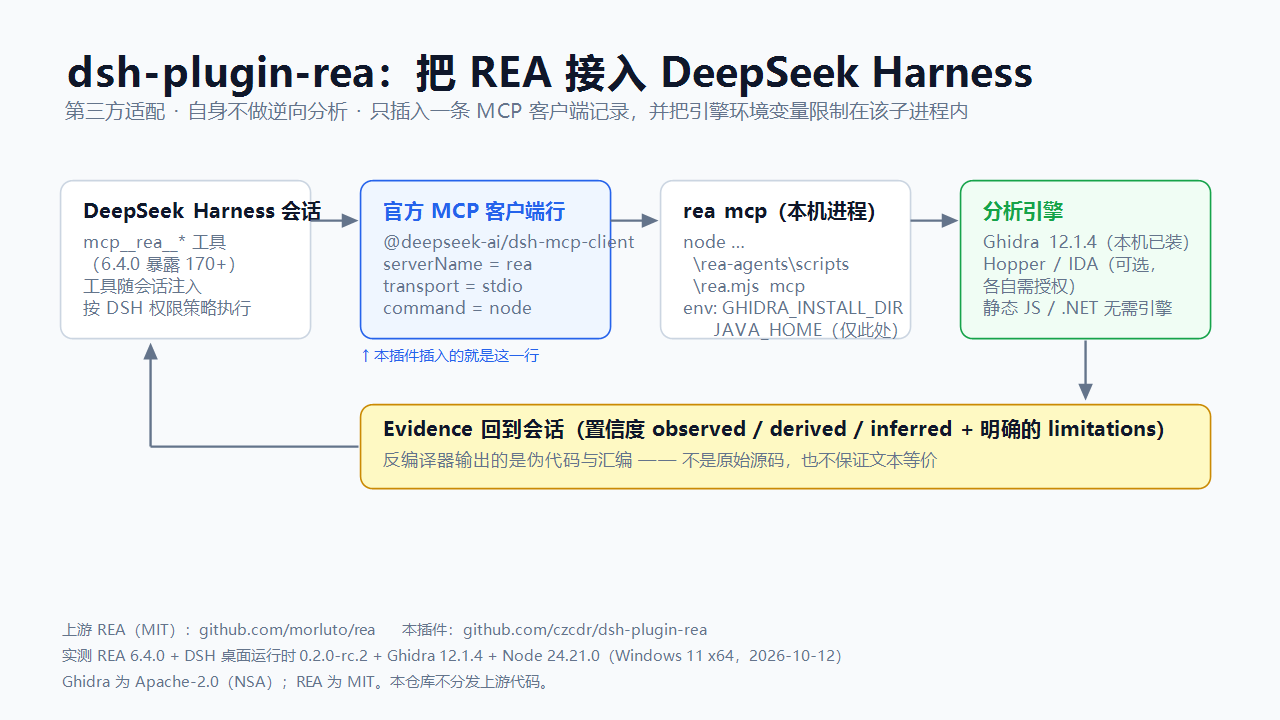
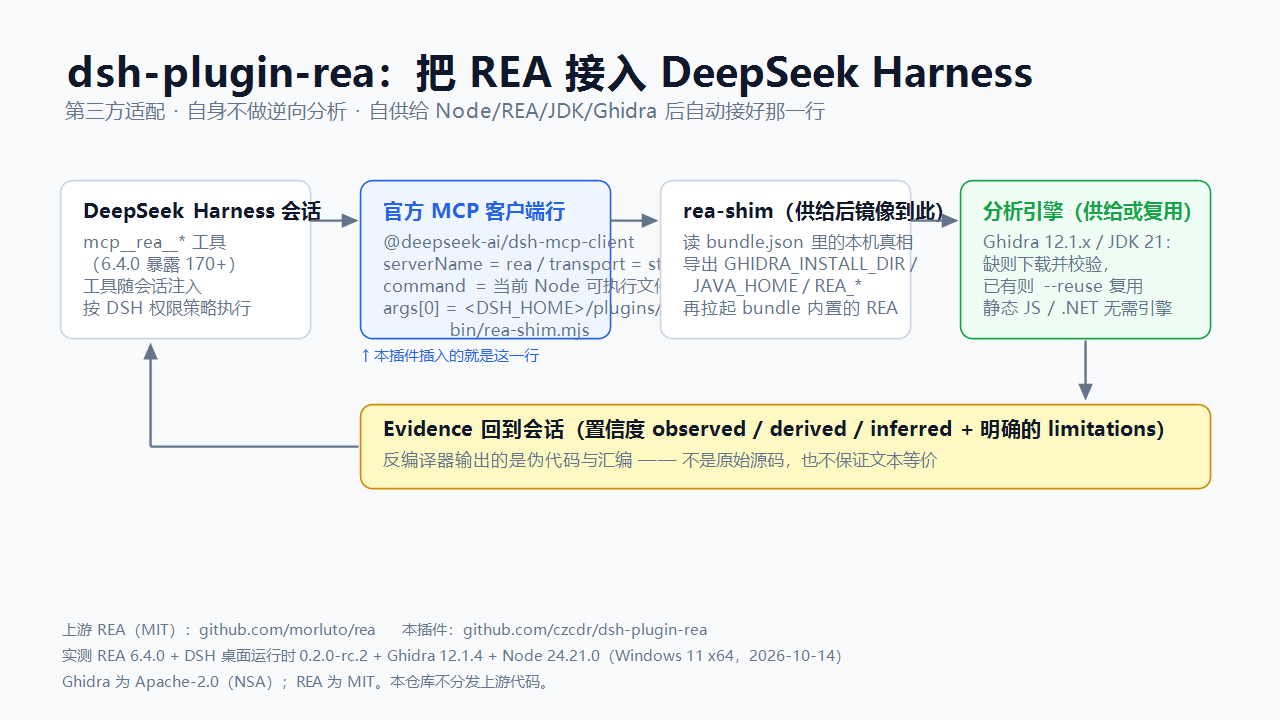
2.0.0: main becomes the one-plugin bundle line, with 1.x preserved on v1
main fast-forwards onto the bundle branch (no merge commit), so the default branch,
npm latest and the market all point at the all-in-one variant; the 1.x
configuration-only adapter is preserved on the new v1 branch and on npm 1.0.6.

- package.json 2.0.0-bundle.2 -> 2.0.0; CHANGELOG gains the 2.0.0 entry including the
  1.x -> 2.x upgrade steps (run setup once, then restart: the 2.x row launches a shim
  that only setup creates, so an unprovisioned upgrade loses the tools silently)
- both READMEs: a new "two lines" section comparing 1.x and 2.x, install commands
  switched to the npm name (plus a #v2.0.0 pin), an "Upgrading from 1.x" section, and
  a Verified-against note that separates what was exercised live from what was not
  (the JDK + Ghidra download branch, macOS/Linux first runs)
- assets/make-screenshots.ps1: the diagram now shows the 2.x chain (host Node ->
  mirrored shim -> vendored REA -> engines), and its param default no longer reads
  $PSScriptRoot, which is not populated while parameter defaults are bound under
  Windows PowerShell 5.1 — the documented invocation died there, so this script had
  never actually regenerated a screenshot. Both screenshots regenerated.
- docs/marketplace-entry.yml: 2.x description, and the stale "current v1.0.5" comment

Changed region(s): [[0.2812, 0.275, 0.75, 0.4889], [0.1562, 0.1222, 0.75, 0.1833], [0.75, 0.275, 0.9375, 0.4278]]

diff --git a/README.md b/README.md
@@ -7,12 +7,13 @@
 Brings the upstream **[REA — Reverse Engineer Anything](https://github.com/morluto/rea)** MCP server into
 **DeepSeek Harness** (dsh), so its tools show up in a session as `mcp__rea__*`.
 
-![dsh-plugin-rea: a session calls the local rea mcp through the official MCP client row, and the Evidence comes back](assets/screenshot-1.png)
+![dsh-plugin-rea: the session calls the official MCP client row, which launches the bundle's shim; the shim starts the provisioned REA and the Evidence comes back](assets/screenshot-1.png)
 
-> **This branch (`feat/one-plugin-bundle`) is the all-in-one variant.** `main` stays the original
-> configuration-only adapter, which assumes you installed Node, `rea-agents` and Ghidra yourself. This
-> branch keeps that patch shape but adds a provisioning layer: install the plugin on a bare machine and it
-> prepares the runtime, then wires the row itself.
+> **This is the 2.x line, and `main` is it.** The all-in-one variant: it provisions the runtime (Node, the REA
+> CLI, a JDK, Ghidra) and then wires the row itself. The original configuration-only adapter — 1.x, which
+> assumed you had installed Node, `rea-agents` and Ghidra yourself — is preserved on the
+> [`v1` branch](https://github.com/czcdr/dsh-plugin-rea/tree/v1) and on npm as `dsh-plugin-rea@1.0.6`.
+> The two lines are compared in [Two lines: 1.x and 2.x](#two-lines-1x-and-2x).
 
 ## What this is
 
@@ -66,6 +67,21 @@ The analysis is upstream's; this section only restates upstream's own contract s
 | `capture_process_scenario` | Linux/macOS PTY |
 | apktool (Android resource decoding) | available only when `REA_APKTOOL_COMMAND` points at something Node can **execute directly**: upstream `execFile`s that command without a shell, and Windows cannot execute a `.bat`/`.cmd` that way (EINVAL). This bundle wires the official `apktool.bat` as upstream documents, so on Windows the launcher reports no version and the capability stays unavailable; JADX (a jar) is unaffected |
 
+## Two lines: 1.x and 2.x
+
+| | **2.x** — this line, `main` | **1.x** — [`v1`](https://github.com/czcdr/dsh-plugin-rea/tree/v1) |
+|---|---|---|
+| What it is | the adapter **plus provisioning**: it prepares Node, the REA CLI, a JDK and Ghidra, then wires the row | configuration-only adapter: one MCP row pointing at a `rea` you installed yourself |
+| What you need first | nothing for the runtime — provisioning fetches what is missing (with `--reuse` it adopts an existing Ghidra/JDK instead) | Node.js on REA's engines, `npm i -g rea-agents`, and Ghidra 12.1.x for native analysis |
+| First run | run `scripts/setup.mjs` (or the bootstrap) once, then restart dsh | nothing to run |
+| The row launches | the running Node executable plus `<DSH_HOME>/plugins/rea-bundle/bin/rea-shim.mjs`, which reads that machine's state | `cmd.exe /c rea mcp` on Windows, `rea mcp` on macOS/Linux |
+| Machine state | `<DSH_HOME>/plugins/rea-bundle/` — `bundle.json`, `vendor/`, `cache/` | your own REA and Ghidra installs |
+| Install | `dsh plugin --profile <profile> add dsh-plugin-rea` (npm `latest` ≥ 2.0.0) | `… add dsh-plugin-rea@1.0.6`, or `github:czcdr/dsh-plugin-rea#v1.0.6` |
+
+Both lines ship the **same patch shape** — one `insert` row of `@deepseek-ai/dsh-mcp-client` — and offer the
+same `mcp__rea__*` surface; they differ in who prepares the runtime. Moving from 1.x to 2.x takes two
+commands: see [Upgrading from 1.x](#upgrading-from-1x).
+
 ## Install
 
 **Nothing to install first.** On a bare Windows x64 machine:
@@ -78,7 +94,9 @@ powershell -ExecutionPolicy Bypass -File scripts\rea-bundle-bootstrap.ps1 -Reuse
 releases, checksum-verified). Then install the plugin for your profile:
 
 ```
-dsh plugin --profile <profile> add github:czcdr/dsh-plugin-rea#feat/one-plugin-bundle
+dsh plugin --profile <profile> add dsh-plugin-rea
+# or pin this release instead of tracking npm latest:
+dsh plugin --profile <profile> add github:czcdr/dsh-plugin-rea#v2.0.0
 ```
 
 > **On an Electron host (the DeepSeek Harness desktop app) the profile is owned by the application.**
@@ -161,7 +179,7 @@ exact shim launch the MCP row will use.
 
 ## Verified against
 
-Author's machine, 2026-10-13:
+Author's machine, 2026-10-13 / 14:
 
 | Component | Version |
 |---|---|
@@ -174,7 +192,14 @@ Author's machine, 2026-10-13:
 | Host | Windows 11 x64 (build 26200) |
 
 Exercised live: a clean `setup.mjs --reuse` run reached `setup complete`; an MCP `initialize` handshake
-**through the shim with no `rea` on PATH** answered `serverInfo {name: rea, version: 6.4.0}`.
+**through the shim with no `rea` on PATH** answered `serverInfo {name: rea, version: 6.4.0}`; and the whole
+chain ran under the real desktop host — its own Electron binary launched
+`<DSH_HOME>/plugins/rea-bundle/bin/rea-shim.mjs mcp`, the shim started the **vendored** REA, and a live tool
+call reported `path_source: environment` for a path only that machine's `bundle.json` knows.
+
+Not exercised end to end here, and therefore not claimed: the ~775 MB JDK + Ghidra download branch (planned
+by `--dry-run`, but this machine adopted its existing installs with `--reuse`), and first runs on
+macOS/Linux.
 
 ## Scope and caveats
 
@@ -193,6 +218,21 @@ Exercised live: a clean `setup.mjs --reuse` run reached `setup complete`; an MCP
   skipped on purpose during provisioning.
 
 ## Updating — three independent things
+
+### Upgrading from 1.x
+
+Install 2.x, then run provisioning **once** before restarting dsh:
+
+```
+node scripts/setup.mjs          # or: powershell -File scripts\rea-bundle-bootstrap.ps1 -Reuse
+```
+
+Why it matters: the 1.x row launched `rea mcp` from PATH, while the 2.x row launches
+`<DSH_HOME>/plugins/rea-bundle/bin/rea-shim.mjs` — a file only `setup.mjs` creates. Upgrade and restart
+without provisioning and that row exits with `MODULE_NOT_FOUND`: the harness stays up
+(`failOnStartupError: false` is deliberate), but the `mcp__rea__*` tools are gone and you get **no
+remediation message**, because the shim that prints one does not exist yet. After the setup run they are
+back on the next start.
 
 - **This plugin** never updates itself. Installed from a market? Update it there. Installed from a `file:`
   checkout? Overwrite the directory and reinstall.

diff --git a/README.zh-CN.md b/README.zh-CN.md
@@ -7,11 +7,12 @@
 把上游 **[REA — Reverse Engineer Anything](https://github.com/morluto/rea)** 的 MCP 服务接入
 **DeepSeek Harness**（dsh），让它的工具在会话里以 `mcp__rea__*` 出现。
 
-![dsh-plugin-rea：会话经官方 MCP 客户端行调用本机 rea mcp，再把 Evidence 带回会话](assets/screenshot-1.png)
+![dsh-plugin-rea：会话经官方 MCP 客户端行启动本包供给的 shim，再由 shim 拉起 bundle 内置的 REA，最后把 Evidence 带回会话](assets/screenshot-1.png)
 
-> **本分支（`feat/one-plugin-bundle`）是"一体包"版本。** `main` 保留原本的纯配置型适配器 —— 它假设
-> Node、`rea-agents`、Ghidra 都是你自己装好的。本分支保留同样的 patch 形态，但加了一层供给能力：
-> 在一台干净机器上装上插件，它会自己把运行时准备好，然后把那一行接好。
+> **这是 2.x 线，而 `main` 就是它。** 一体包版本：它会自己准备运行时（Node、REA CLI、JDK、Ghidra），
+> 再把那一行接好。原本的纯配置适配器（1.x —— 假设 Node、`rea-agents`、Ghidra 都是你自己装好的）保留在
+> [`v1` 分支](https://github.com/czcdr/dsh-plugin-rea/tree/v1)，npm 上仍是 `dsh-plugin-rea@1.0.6`。
+> 两条线的对比见[两条线：1.x 与 2.x](#两条线1x-与-2x)。
 
 ## 这是什么
 
@@ -60,6 +61,21 @@ patch 里不含任何机器路径**。
 | `capture_process_scenario` | 仅 Linux/macOS 的 PTY |
 | apktool（Android 资源解码） | 仅当 `REA_APKTOOL_COMMAND` 指向 Node 能**直接执行**的文件时才可用：上游用 `execFile` 不加 shell 直接起这个命令，而 Windows 上 Node 无法直接执行 `.bat`/`.cmd`（EINVAL）。本包按上游文档接的是官方 `apktool.bat`，所以在 Windows 上它拿不到版本、该能力不可用；JADX 走 jar，不受影响 |
 
+## 两条线：1.x 与 2.x
+
+| | **2.x** —— 当前这条，`main` | **1.x** —— [`v1`](https://github.com/czcdr/dsh-plugin-rea/tree/v1) |
+|---|---|---|
+| 是什么 | 适配器**加供给**：自己准备 Node、REA CLI、JDK、Ghidra，再把那一行接好 | 纯配置适配器：一行 MCP 行，指向你自己装好的 `rea` |
+| 前置 | 运行时什么都不用装 —— 缺什么它去取（`--reuse` 则复用机器上已有的 Ghidra/JDK） | Node.js（满足 REA engines）、`npm i -g rea-agents`，原生分析还要 Ghidra 12.1.x |
+| 首次运行 | 先跑一次 `scripts/setup.mjs`（或引导脚本），再重启 dsh | 不用跑任何东西 |
+| 那一行启动什么 | 当前 Node 可执行文件 + `<DSH_HOME>/plugins/rea-bundle/bin/rea-shim.mjs`（由 shim 读本机状态） | Windows 上 `cmd.exe /c rea mcp`，macOS/Linux 上 `rea mcp` |
+| 机器状态 | `<DSH_HOME>/plugins/rea-bundle/` —— `bundle.json`、`vendor/`、`cache/` | 你自己的 REA 与 Ghidra 安装 |
+| 安装 | `dsh plugin --profile <profile> add dsh-plugin-rea`（npm `latest` ≥ 2.0.0） | `… add dsh-plugin-rea@1.0.6`，或 `github:czcdr/dsh-plugin-rea#v1.0.6` |
+
+两条线发布的是**同一种 patch 形态**（一条 `insert` 行，`@deepseek-ai/dsh-mcp-client`），对外也提供同一套
+`mcp__rea__*` 工具面；区别只在"谁准备运行时"。从 1.x 到 2.x 只要两条命令，见
+[从 1.x 升级](#从-1x-升级)。
+
 ## 安装
 
 **前置什么都不用装。** 在干净的 Windows x64 机器上：
@@ -72,7 +88,9 @@ powershell -ExecutionPolicy Bypass -File scripts\rea-bundle-bootstrap.ps1 -Reuse
 profile 安装插件：
 
 ```
-dsh plugin --profile <profile> add github:czcdr/dsh-plugin-rea#feat/one-plugin-bundle
+dsh plugin --profile <profile> add dsh-plugin-rea
+# 或钉住这个版本，而不是跟着 npm latest 走：
+dsh plugin --profile <profile> add github:czcdr/dsh-plugin-rea#v2.0.0
 ```
 
 > **Electron 宿主（DeepSeek Harness 桌面版）的 profile 由应用独占。** 那种机器上 `dsh plugin --profile desktop …`
@@ -151,7 +169,7 @@ shim 启动**。
 
 ## 实测环境
 
-作者机器，2026-10-13：
+作者机器，2026-10-13 / 14：
 
 | 组件 | 版本 |
 |---|---|
@@ -164,7 +182,12 @@ shim 启动**。
 | 宿主 | Windows 11 x64（build 26200） |
 
 实测跑过：一次干净的 `setup.mjs --reuse` 走到 `setup complete`；一次**不经 PATH 上的 `rea`、完全经由
-shim** 的 MCP `initialize` 握手返回 `serverInfo {name: rea, version: 6.4.0}`。
+shim** 的 MCP `initialize` 握手返回 `serverInfo {name: rea, version: 6.4.0}`；以及**真实桌面宿主下的完整链路** ——
+宿主自己的 Electron 二进制启动 `<DSH_HOME>/plugins/rea-bundle/bin/rea-shim.mjs mcp`，shim 拉起 **bundle 内置**
+的 REA，随后一次真实工具调用报出 `path_source: environment`，而那个路径只有该机的 `bundle.json` 知道。
+
+本机**没有**端到端跑过、因此不做承诺的：约 775 MB 的 JDK + Ghidra 下载分支（`--dry-run` 有计划，本机用
+`--reuse` 复用了已有安装），以及 macOS/Linux 的首次运行。
 
 ## 边界与注意事项
 
@@ -182,6 +205,20 @@ shim** 的 MCP `initialize` 握手返回 `serverInfo {name: rea, version: 6.4.0}
   `node_modules`，必须解析依赖闭包；而供给过程中**刻意跳过包的 lifecycle 脚本**。
 
 ## 更新 —— 三件互相独立的事
+
+### 从 1.x 升级
+
+装上 2.x 后，**先跑一次供给**，再重启 dsh：
+
+```
+node scripts/setup.mjs          # 或：powershell -File scripts\rea-bundle-bootstrap.ps1 -Reuse
+```
+
+为什么必须先跑：1.x 的行从 PATH 上启动 `rea mcp`，而 2.x 的行启动
+`<DSH_HOME>/plugins/rea-bundle/bin/rea-shim.mjs` —— 那个文件**只有 `setup.mjs` 会创建**。升级后直接重启，
+该行会以 `MODULE_NOT_FOUND` 退出：harness 本身照常（`failOnStartupError: false` 是刻意的），但
+`mcp__rea__*` 工具会消失，而且**不会有任何修复提示** —— 会打提示的 shim 本身还不存在。跑完 setup 再启动，
+工具就回来了。
 
 - **本插件**从不自更新。从市场装的就在市场更新；从 `file:` 检出的就覆盖目录重装。
 - **从 `2.0.0-bundle.1` 升级**：那一版镜像了 shim 与 `setup.mjs`，却漏了 manifest，也没有留下插件 checkout

diff --git a/CHANGELOG.md b/CHANGELOG.md
@@ -2,12 +2,26 @@
 
 本插件遵循语义化版本。版本号变化说明「配置组合」这层的变化，与 REA 自身的版本无关。
 
-## 2.0.0-bundle.2 — 2026-10-14
+## 2.0.0 — 2026-10-15
 
-一体包分支的**正确性修复**。这一轮把「装一个插件、它自己供给」这条链路从"永远启不动"修到实测可用，
-并把每一个修掉的坑都变成审计或 CI 能自动抓住的检查。
+**一体包线的首个正式版**（此前的 `2.0.0-bundle.1` / `2.0.0-bundle.2` 是它的两个预发布）。
+`main` 现在就是这一条；1.x 的纯配置适配器保留在
+[`v1` 分支](https://github.com/czcdr/dsh-plugin-rea/tree/v1)，npm 上仍可装 `dsh-plugin-rea@1.0.6`。
 
-### 🔴 三个致命缺陷（按旧版说明走的用户每一步都会撞上）
+### 🔴 从 1.x 升级：先跑一次供给，再重启
+
+1.x 的行指向 PATH 上的 `rea mcp`；2.x 的行指向 `<DSH_HOME>/plugins/rea-bundle/bin/rea-shim.mjs`，
+而**那个文件只有 `setup.mjs` 会创建**。所以从 1.x 升上来后直接重启会：
+
+- 让该行以 `MODULE_NOT_FOUND` 退出（harness 本身不受影响 —— `failOnStartupError: false` 是刻意的），
+  于是 `mcp__rea__*` 工具消失，而且**不会得到任何修复提示**：会打提示的 shim 本身还不存在；
+- 正确做法是在插件目录跑一次 `node scripts/setup.mjs`（或 `scripts\rea-bundle-bootstrap.ps1 -Reuse`），
+  再重启 dsh，工具就回来了。此后每一次「状态缺失」都由 shim 自己发现并在后台补供给。
+
+（如果你在 profile 的 `cordis.patch.yml` 里按 id 覆盖过 `mcp-rea`（例如钉 `cmd.exe /c rea mcp`），
+那条覆盖会继续生效，升级不影响你。）
+
+### 三个致命缺陷（按旧版说明走的用户每一步都会撞上）
 
 - **MCP 行里的 `!!js` 标量没有加引号。** 裸标量同时含 `? ` 与 `: ` 时，YAML 把它读成**显式键值对**，
   loader 拿到的是 mapping 而不是表达式节点。用 harness 自己的方言实测（`JSON_SCHEMA` + `app.asar` 里的
